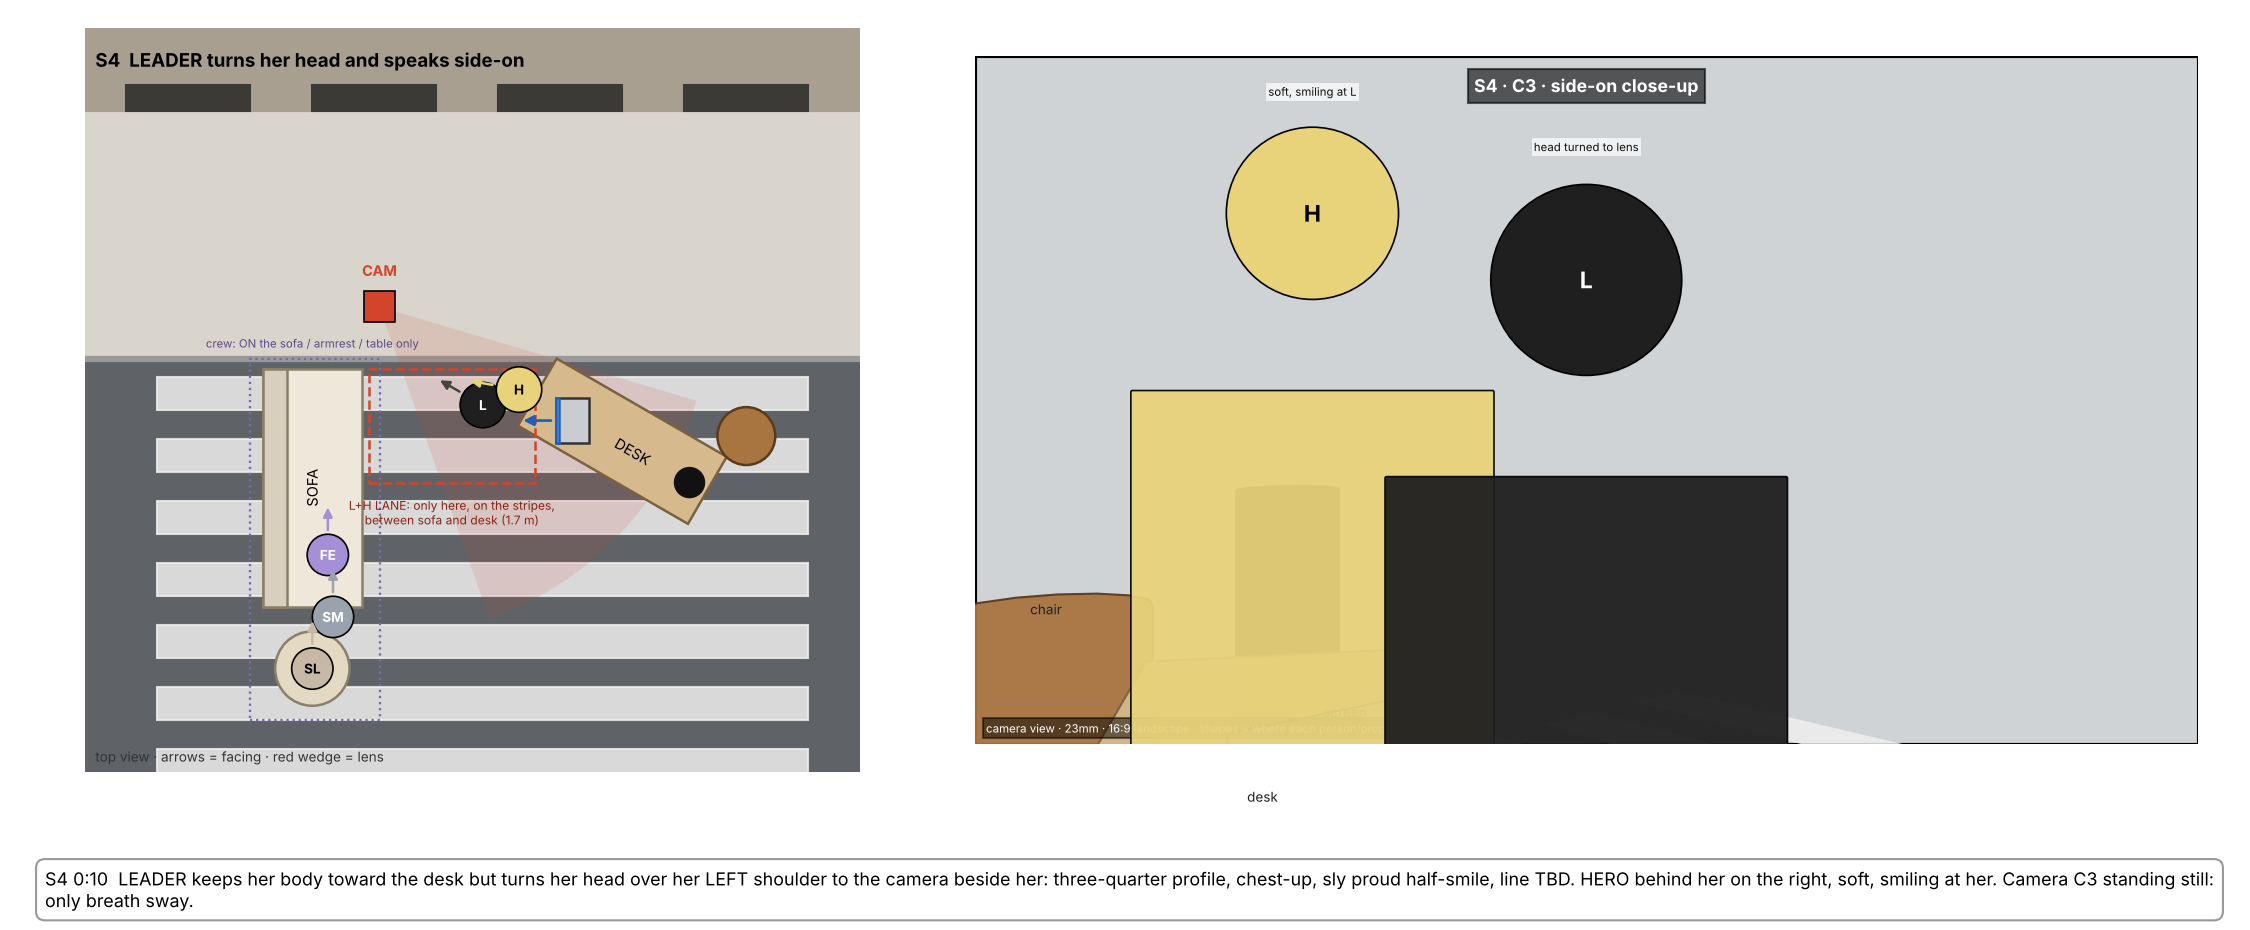
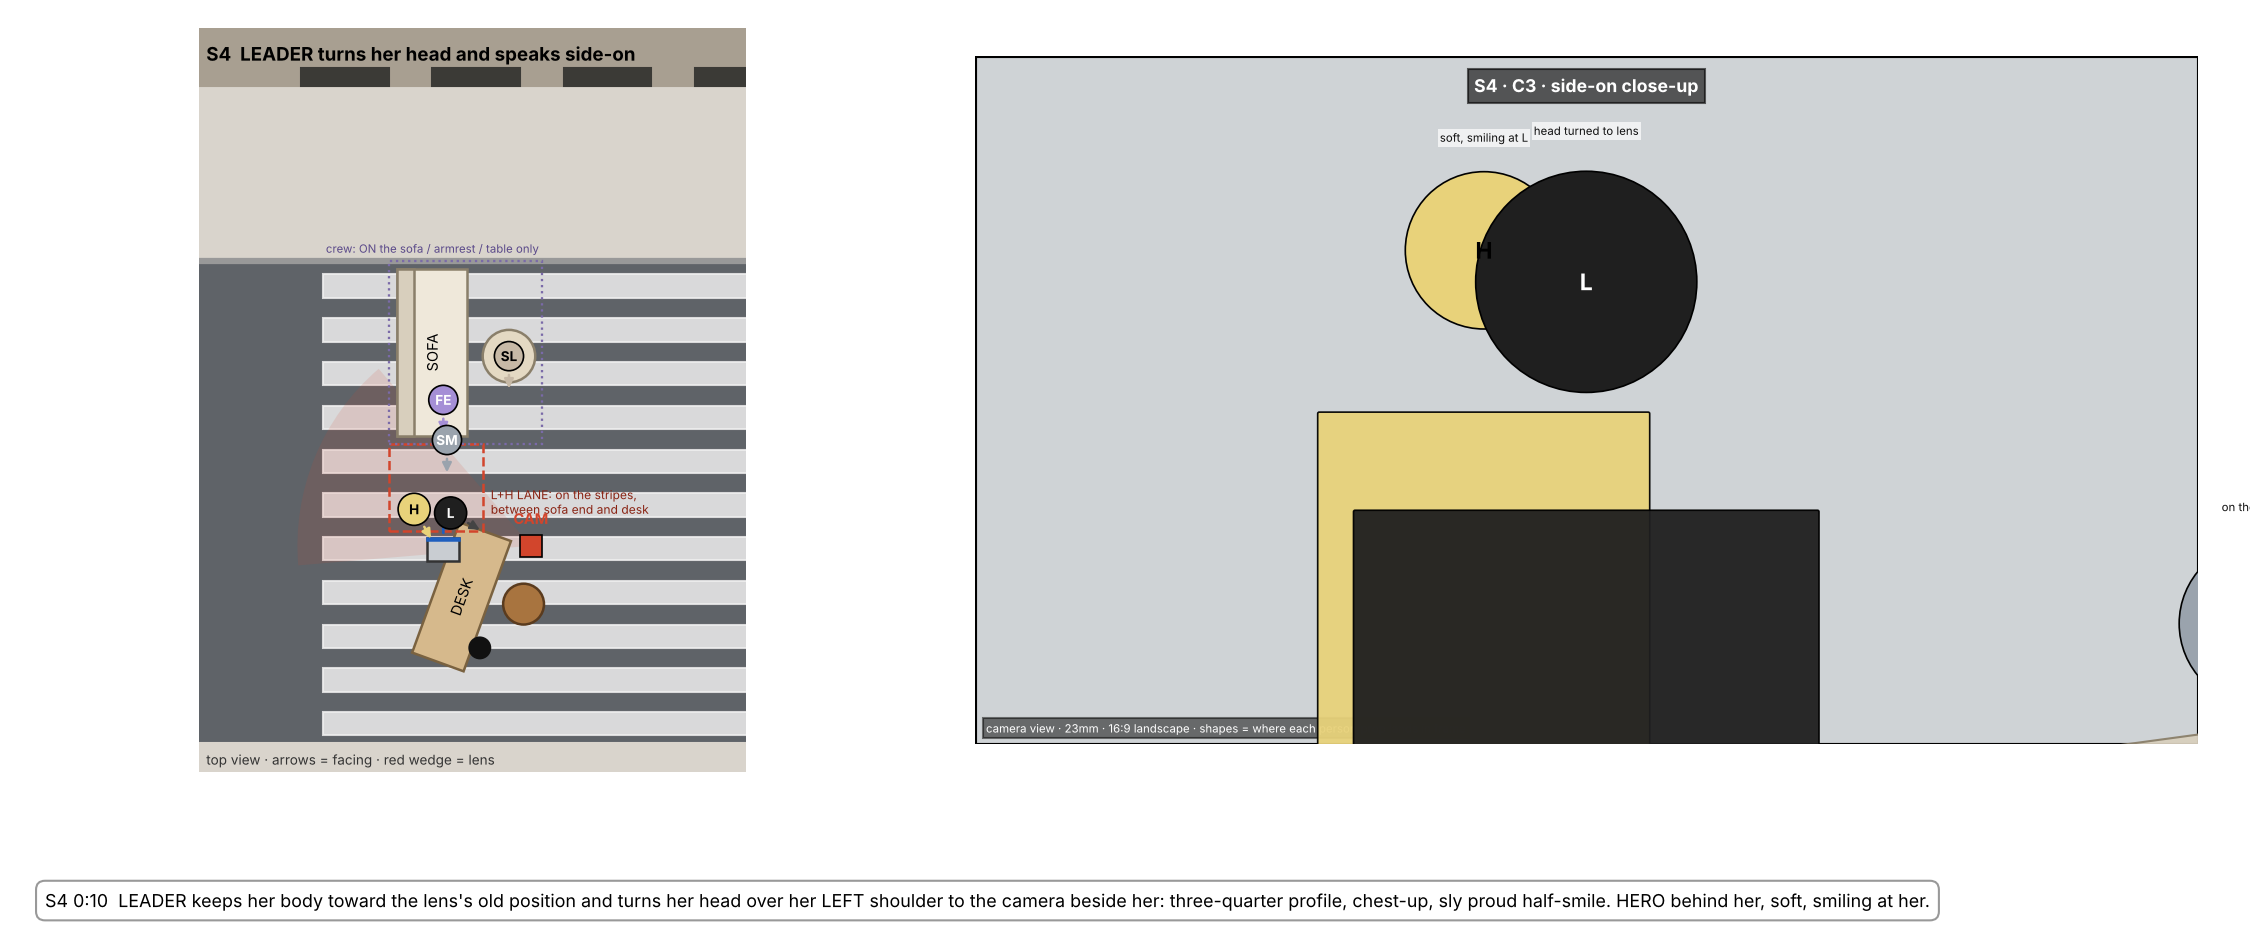
Previz on scene_empty matching Chia's couch/desk sketch; world re-laid (desk out on the crossing toward the camera)
Claude-Session: https://claude.ai/code/session_01UrVJCYAfMmjv3QQnRf3jKV

diff --git a/prompts/shotdiagrams.py b/prompts/shotdiagrams.py
@@ -23,12 +23,12 @@ def rot(cx, cy, w, h, ang):
 
 SOFA = dict(poly=[(0.72, -2.4), (1.68, -2.4), (1.68, -0.1), (0.72, -0.1)], h=0.45, fc="#efe8da", ec="#8a7f6a", label="sofa")
 SOFA_BACK = dict(poly=[(0.72, -2.4), (0.95, -2.4), (0.95, -0.1), (0.72, -0.1)], h=0.85, fc="#d8cfbd", ec="#8a7f6a", label="")
-TABLE = dict(circle=(1.2, -3.0, 0.36), h=0.42, fc="#e4d9c3", ec="#8a7f6a", label="table")
-DESK = dict(poly=rot(4.2, -0.8, 1.9, 0.75, -30), h=0.75, fc="#d6b98c", ec="#7a6240", label="desk")
-LAPTOP = dict(poly=rot(3.72, -0.6, 0.32, 0.44, 0), h=0.77, fc="#c9cdd2", ec="#333", label="")
-SCREEN = dict(poly=[(3.56, -0.82), (3.59, -0.82), (3.59, -0.38), (3.56, -0.38)], h=0.98, z0=0.76, fc="#9ecbff", ec="#1f5fbf", label="screen")
-LAMP = dict(circle=(4.85, -1.2, 0.14), h=1.25, fc="#111", ec="#111", label="lamp")
-CHAIR = dict(circle=(5.4, -0.75, 0.28), h=0.9, fc="#a8743f", ec="#5a3b1e", label="chair")
+TABLE = dict(circle=(2.25, -1.3, 0.36), h=0.42, fc="#e4d9c3", ec="#8a7f6a", label="table")
+DESK = dict(poly=rot(1.6, -4.6, 1.9, 0.75, 70), h=0.75, fc="#d6b98c", ec="#7a6240", label="desk")
+LAPTOP = dict(poly=rot(1.35, -3.95, 0.44, 0.32, 0), h=0.77, fc="#c9cdd2", ec="#333", label="")
+SCREEN = dict(poly=[(1.13, -3.82), (1.57, -3.82), (1.57, -3.79), (1.13, -3.79)], h=0.98, z0=0.76, fc="#9ecbff", ec="#1f5fbf", label="screen")
+LAMP = dict(circle=(1.85, -5.3, 0.14), h=1.25, fc="#111", ec="#111", label="lamp")
+CHAIR = dict(circle=(2.45, -4.7, 0.28), h=0.9, fc="#a8743f", ec="#5a3b1e", label="chair")
 FURN = [SOFA, SOFA_BACK, TABLE, DESK, LAPTOP, SCREEN, LAMP, CHAIR]
 
 # ---------- people ----------
@@ -74,26 +74,27 @@ def to_axes(uv):
 
 # ---------- drawing: top view ----------
 def draw_top(ax, people, cam, title):
-    ax.set_xlim(-1.0, 6.5); ax.set_ylim(-4.0, 3.2); ax.set_aspect("equal"); ax.axis("off")
-    ax.add_patch(Rectangle((-1, -4), 7.5, 4, color="#5f6368"))
-    ax.add_patch(Rectangle((-1, 0), 7.5, 2.4, color="#d9d4cc"))
-    ax.add_patch(Rectangle((-1, 2.4), 7.5, 0.8, color="#a89f91"))
+    ax.set_xlim(-2.0, 5.5); ax.set_ylim(-7.0, 3.2); ax.set_aspect("equal"); ax.axis("off")
+    ax.add_patch(Rectangle((-2, -7), 7.5, 7, color="#5f6368"))
+    ax.add_patch(Rectangle((-2, 0), 7.5, 2.4, color="#d9d4cc"))
+    ax.add_patch(Rectangle((-2, 2.4), 7.5, 0.8, color="#a89f91"))
     for i in range(4):
         ax.add_patch(Rectangle((-0.6 + i*1.8, 2.4), 1.2, 0.25, color="#3b3a36"))
-    ax.plot([-1, 6.5], [0, 0], color="#999", lw=3)
-    for i in range(7):
+    ax.plot([-2, 5.5], [0, 0], color="#999", lw=3)
+    for i in range(11):
         ax.add_patch(Rectangle((-0.3, -0.5 - i*0.6), 6.3, 0.32, color="#efefef", alpha=.85))
+    ax.add_patch(Rectangle((-2, -7), 7.5, 0.4, color="#d9d4cc"))  # near sidewalk edge (camera side)
     for fobj in FURN:
         if "poly" in fobj:
             ax.add_patch(Polygon(fobj["poly"], closed=True, fc=fobj["fc"], ec=fobj["ec"], lw=1.2, zorder=3))
         else:
             cx, cy, r = fobj["circle"]; ax.add_patch(Circle((cx, cy), r, fc=fobj["fc"], ec=fobj["ec"], lw=1.2, zorder=3))
     ax.text(1.2, -1.25, "SOFA", rotation=90, ha="center", va="center", fontsize=7, zorder=4)
-    ax.text(4.3, -0.9, "DESK", rotation=-30, ha="center", va="center", fontsize=7, zorder=4)
-    ax.annotate("", xy=(3.2, -0.6), xytext=(3.55, -0.6), arrowprops=dict(arrowstyle="-|>", color="#1f5fbf", lw=1.3), zorder=5)
-    ax.add_patch(Rectangle((1.75, -1.2), 1.6, 1.1, fill=False, ec="#d2452c", ls="--", lw=1.2, zorder=4))
-    ax.text(2.55, -1.35, "L+H LANE: only here, on the stripes,\nbetween sofa and desk (1.7 m)", ha="center", va="top", fontsize=5.8, color="#8a2414", zorder=5)
-    ax.add_patch(Rectangle((0.6, -3.5), 1.25, 3.5, fill=False, ec="#7a6aa8", ls=":", lw=1.1, zorder=4))
+    ax.text(1.6, -4.6, "DESK", rotation=70, ha="center", va="center", fontsize=7, zorder=4)
+    ax.annotate("", xy=(1.35, -3.3), xytext=(1.35, -3.78), arrowprops=dict(arrowstyle="-|>", color="#1f5fbf", lw=1.3), zorder=5)
+    ax.add_patch(Rectangle((0.6, -3.7), 1.3, 1.2, fill=False, ec="#d2452c", ls="--", lw=1.2, zorder=4))
+    ax.text(2.0, -3.1, "L+H LANE: on the stripes,\nbetween sofa end and desk", ha="left", va="top", fontsize=5.8, color="#8a2414", zorder=5)
+    ax.add_patch(Rectangle((0.6, -2.5), 2.1, 2.5, fill=False, ec="#7a6aa8", ls=":", lw=1.1, zorder=4))
     ax.text(1.2, 0.08, "crew: ON the sofa / armrest / table only", ha="center", va="bottom", fontsize=5.5, color="#5b4a8a", zorder=5)
     # camera frustum
     lx, ly = cam["look"]; yaw = math.degrees(math.atan2(ly - cam["y"], lx - cam["x"]))
@@ -110,8 +111,8 @@ def draw_top(ax, people, cam, title):
         ax.add_patch(FancyArrowPatch((p["x"] + r*math.cos(a), p["y"] + r*math.sin(a)),
                                      (p["x"] + (r+0.3)*math.cos(a), p["y"] + (r+0.3)*math.sin(a)),
                                      arrowstyle="-|>", mutation_scale=9, color=COL[p["k"]] if p["k"] != "L" else "#444", lw=1.2, zorder=6))
-    ax.text(-0.9, 3.0, title, fontsize=9, weight="bold", va="top")
-    ax.text(-0.9, -3.9, "top view · arrows = facing · red wedge = lens", fontsize=6.5, color="#333")
+    ax.text(-1.9, 3.0, title, fontsize=9, weight="bold", va="top")
+    ax.text(-1.9, -6.9, "top view · arrows = facing · red wedge = lens", fontsize=6.5, color="#333")
 
 # ---------- drawing: camera view ----------
 def draw_cam(ax, people, cam, title):
@@ -154,7 +155,7 @@ def draw_cam(ax, people, cam, title):
         s = poly_world([(-0.3, -0.5 - i*0.6), (6.0, -0.5 - i*0.6), (6.0, -0.18 - i*0.6), (-0.3, -0.18 - i*0.6)])
         if s:
             ax.add_patch(Polygon(s, closed=True, fc="#efefef", ec="none", alpha=.85, zorder=1))
-    lane = poly_world([(1.75, -1.2), (3.35, -1.2), (3.35, -0.1), (1.75, -0.1)])
+    lane = poly_world([(0.6, -3.7), (1.9, -3.7), (1.9, -2.5), (0.6, -2.5)])
     if lane:
         ax.add_patch(Polygon(lane, closed=True, fc="none", ec="#d2452c", ls="--", lw=1.0, zorder=2))
     # depth-sorted objects
@@ -229,57 +230,47 @@ def render(shot_id, title, beat_text, people, cam):
 
 # ---------- the beats ----------
 # crew home marks
-FE_home = P("FE", 1.35, -1.9, "kneel", 90, "on the seat")
-SM_home = P("SM", 1.4, -2.5, "sit", 90, "on the armrest")
-SL_home = P("SL", 1.2, -3.0, "sit", 90, "on the table")
+FE_home = P("FE", 1.35, -1.9, "kneel", 270, "on the seat")
+SM_home = P("SM", 1.4, -2.45, "sit", 270, "on the armrest")
+SL_home = P("SL", 2.25, -1.3, "sit", 270, "on the table")
 
 SHOTS = [
  ("S1a", "Sofa, camera arrives",
-  "S1a 0:00  All five at the sofa. LEADER sits at the curb end of the sofa, HERO right beside her on her right (the road side), magazine closed on her lap. "
-  "FEATHER bounces on the far seat; SILVERMAN sits on the road-end armrest and hops up and down on it; SLICKED sits on the travertine table facing the sofa. Nobody stands behind the sofa. "
-  "Camera C1 on the sidewalk, 2.6 m back from the curb, looking down at the sofa. LEADER glances up at the lens. Desk at the right frame edge.",
-  [P("L", 1.35, -0.55, "sit", 0, "sits, curb end"), P("H", 1.35, -1.25, "sit", 0, "sits beside L"), FE_home, SM_home, SL_home],
-  CAM(2.9, 2.6, (1.4, -1.4), z=1.5, pitch=-7, note="C1 · wide on the sofa")),
- ("S1b", "They stand and walk; camera backs up",
-  "S1b 0:00.8  LEADER and HERO are up and walking along the curb toward the desk, HERO glued to LEADER's right (road side), magazine now open over her face. They walk ON the white stripes, inside the 1.7 m lane between sofa and desk, never up onto the sidewalk. "
-  "Camera walks BACKWARD 2 m ahead of them along the sidewalk, step bob, slight tilt. Crew stays at the sofa, 1–2 m behind the pair, soft. LEADER looks into the lens.",
-  [P("L", 2.3, -0.4, "stand", 0, "walking, eyes on lens"), P("H", 2.3, -1.0, "stand", 0, "magazine over face"), FE_home, SM_home, SL_home],
-  CAM(3.7, 2.7, (2.3, -0.7), z=1.5, pitch=-5, roll=2, note="C1→C2 · walking backward")),
+  "S1a 0:00  All five at the sofa at the far (building) curb. LEADER sits on the sofa at the ROAD end (nearest the camera), HERO right beside her on her right, magazine closed on her lap. FEATHER kneels on the seat behind them; SILVERMAN sits on the far armrest; SLICKED sits on the travertine table beside the sofa. Nobody stands behind the sofa. The desk stands on the crossing nearer the camera, lower right. Camera C1 on the near sidewalk corner.",
+  [P("L", 1.35, -2.0, "sit", 270, "sits, road end"), P("H", 1.0, -2.0, "sit", 270, "sits beside L"), P("FE", 1.35, -1.2, "kneel", 270, "on the seat"), P("SM", 1.4, -0.3, "sit", 270, "on the armrest"), SL_home],
+  CAM(-2.98, -8.87, (1.2, -2.0), z=1.8, pitch=-7.7, note="C1 · wide on the sofa")),
+ ("S1b", "They stand and walk toward the camera; camera backs up",
+  "S1b 0:00.8  LEADER and HERO are up and walking along the stripes from the sofa toward the desk and the lens, HERO glued to LEADER's right, magazine open over her face. They stay inside the lane between the sofa's road end and the desk; the sofa is one step behind them, the desk one step ahead. Camera walks BACKWARD on the near sidewalk.",
+  [P("L", 1.35, -2.9, "stand", 270, "walking, eyes on lens"), P("H", 0.8, -2.85, "stand", 270, "magazine over face"), FE_home, SM_home, SL_home],
+  CAM(-3.2, -9.2, (1.2, -3.0), z=1.8, pitch=-7, roll=2, note="C1→C2 · walking backward")),
  ("S2a", "At the desk; LEADER starts her line",
-  "S2a 0:02  They stop at the desk's near end: HERO's right hip almost touches the desk corner, LEADER one step to her left. Both stand on the stripes below the curb; the camera man is the only one on the sidewalk. "
-  "magazine lowered to her chest, looking at LEADER. Camera C2 on the sidewalk, 2.6 m back from the curb. LEADER: 'Still paying Higgsfield for this?' Crew soft 2 m behind.",
-  [P("L", 2.85, -0.45, "stand", 90, "faces lens, speaking"), P("H", 3.2, -0.3, "stand", 120, "at the desk corner, looks at L"),
-   FE_home, SM_home, SL_home],
-  CAM(4.1, 2.6, (2.95, -0.45), z=1.5, pitch=-4, note="C2 · medium two-shot")),
+  "S2a 0:02  They stop at the desk's sofa-side end: HERO's right hip almost touches the desk corner, LEADER one step to her left (camera-right). Both face the lens; both on the stripes. LEADER: 'Still paying Higgsfield for this?' Crew soft on the sofa behind them.",
+  [P("L", 1.45, -3.45, "stand", 270, "faces lens, speaking"), P("H", 0.95, -3.4, "stand", 270, "at the desk corner, looks at L"), FE_home, SM_home, SL_home],
+  CAM(-2.98, -8.87, (1.2, -3.4), z=1.8, pitch=-7.7, note="C2 · medium two-shot")),
  ("S2b", "Push-in on LEADER",
-  "S2b 0:03  While LEADER speaks the camera walks in to 0.8 m: her face and upper body fill the frame, focus on her eyes, proud cute micro-expressions. "
-  "HERO is a soft shape at the right edge, still looking at LEADER. Nothing else sharp.",
-  [P("L", 2.85, -0.45, "stand", 90, "close-up"), P("H", 3.2, -0.3, "stand", 120, "soft, edge"), FE_home, SM_home, SL_home],
-  CAM(3.15, 0.75, (2.85, -0.45), z=1.5, pitch=0, note="C2+ · close on LEADER")),
+  "S2b 0:03  While LEADER speaks the camera walks in to 0.8 m: her face and upper body fill the frame, focus on her eyes. HERO a soft shape at the frame edge, looking at LEADER.",
+  [P("L", 1.45, -3.45, "stand", 270, "close-up"), P("H", 0.95, -3.4, "stand", 270, "soft, edge"), FE_home, SM_home, SL_home],
+  CAM(1.2, -4.9, (1.45, -3.45), z=1.5, pitch=2, note="C2+ · close on LEADER")),
  ("S3a", "HERO speaks; camera turns to her",
-  "S3a 0:04.5  HERO: 'We made Higgsfield 3x cheaper… I cost [$HF] on Higgsfield, and now [$TREG] on treg.' Camera pans from LEADER to HERO (small overshoot, refocus) and holds on her. "
-  "HERO looks lens → LEADER → lens; LEADER watches HERO, hand on her shoulder. Same marks as S2a.",
-  [P("L", 2.85, -0.45, "stand", 30, "watches H"), P("H", 3.2, -0.3, "stand", 100, "speaking to lens"), FE_home, SM_home, SL_home],
-  CAM(4.1, 2.6, (3.2, -0.3), z=1.5, pitch=-4, note="C2 · on HERO")),
+  "S3a 0:04.5  HERO's lines. Camera whips from LEADER to HERO and holds. HERO looks lens → LEADER → lens; LEADER watches HERO, hand on her shoulder. Same marks as S2a.",
+  [P("L", 1.45, -3.45, "stand", 230, "watches H"), P("H", 0.95, -3.4, "stand", 270, "speaking to lens"), FE_home, SM_home, SL_home],
+  CAM(-2.98, -8.87, (0.95, -3.4), z=1.8, pitch=-7.7, note="C2 · on HERO")),
  ("S3b", "Camera walks round to LEADER's left",
-  "S3b 0:07  Still on HERO's price line, the camera man walks along the curb to C3, on LEADER's LEFT (the sofa side), 1 m from her. Each step a dip, horizon rolls a degree or two. "
-  "In the near foreground: LEADER's left shoulder, kimono sleeve and the back of her bob, soft. HERO still talking beyond her. Desk and laptop behind them.",
-  [P("L", 2.85, -0.45, "stand", 40, "fg shoulder"), P("H", 3.2, -0.3, "stand", 150, "talking"), FE_home, SM_home, SL_home],
-  CAM(1.9, 0.6, (3.2, -0.35), z=1.5, pitch=-1, roll=3, note="C3 · arriving, over L's shoulder")),
+  "S3b 0:07  Still HERO's line; nobody moves. The camera man walks round to LEADER's LEFT (camera-right side), 1 m from her. Foreground: LEADER's left shoulder, sleeve and the back of her bob, soft. HERO talking beyond her; the sofa and crew behind.",
+  [P("L", 1.45, -3.45, "stand", 250, "fg shoulder"), P("H", 0.95, -3.4, "stand", 280, "talking"), FE_home, SM_home, SL_home],
+  CAM(2.5, -4.1, (0.95, -3.4), z=1.5, pitch=0, roll=3, note="C3 · arriving, over L's shoulder")),
  ("S4", "LEADER turns her head and speaks side-on",
-  "S4 0:10  LEADER keeps her body toward the desk but turns her head over her LEFT shoulder to the camera beside her: three-quarter profile, chest-up, sly proud half-smile, line TBD. "
-  "HERO behind her on the right, soft, smiling at her. Camera C3 standing still: only breath sway.",
-  [P("L", 2.85, -0.45, "stand", 150, "head turned to lens"), P("H", 3.2, -0.3, "stand", 170, "soft, smiling at L"), FE_home, SM_home, SL_home],
-  CAM(1.85, 0.5, (2.85, -0.45), z=1.5, pitch=0, note="C3 · side-on close-up")),
+  "S4 0:10  LEADER keeps her body toward the lens's old position and turns her head over her LEFT shoulder to the camera beside her: three-quarter profile, chest-up, sly proud half-smile. HERO behind her, soft, smiling at her.",
+  [P("L", 1.45, -3.45, "stand", 330, "head turned to lens"), P("H", 0.95, -3.4, "stand", 300, "soft, smiling at L"), FE_home, SM_home, SL_home],
+  CAM(2.55, -3.9, (1.45, -3.45), z=1.5, pitch=1, note="C3 · side-on close-up")),
  ("S5a", "Behind LEADER: over her left shoulder onto the laptop",
-  "S5a 0:11.5  LEADER steps to the laptop on the desk's near end and stands facing its screen (the screen faces the sofa, so she stands on the sofa side of the desk with her BACK to the sofa and to the camera). "
-  "The camera man steps in BEHIND her, slightly to her left, on the crossing, lens at her shoulder height looking past her left shoulder down onto the screen. We see the BACK of her black bob, the edge of her left ear, her left shoulder and kimono sleeve, soft and large at the RIGHT edge of the frame, and the glowing screen beyond in the middle. Her FACE IS NOT VISIBLE. HERO on LEADER's right, seen from behind-three-quarter, leaning in.",
-  [P("L", 3.0, -0.55, "stand", 0, "back to camera, at the desk edge"), P("H", 2.95, -1.1, "stand", 25, "leans in"), FE_home, SM_home, SL_home],
-  CAM(2.5, 0.08, (3.58, -0.62), z=1.55, pitch=-20, note="C4 · behind her, over the left shoulder")),
- ("S5b", "Push-in past her shoulder to the screen",
-  "S5b 0:12.5  From behind her the camera pushes forward past her left shoulder until the plain glowing screen fills most of the frame: the back of her bob and the edge of her shoulder slide out of frame on the right, soft. Still no face. No UI, no logo. Hand-off frame for the match cut to the screen recording.",
-  [P("L", 3.0, -0.55, "stand", 0, "back of head, soft"), P("H", 2.95, -1.1, "stand", 25, "")],
-  CAM(2.95, -0.15, (3.58, -0.62), z=1.25, pitch=-16, note="C4+ · screen fills frame")),
+  "S5a 0:11.5  LEADER steps to the desk's sofa-side end, lifts the laptop and holds it at chest height, screen toward her (toward the sofa side), lid toward the road. Her BACK is to the sofa. The camera man steps in BEHIND her, between her and the sofa, slightly to her left: back of her bob, left ear edge, left shoulder and sleeve large and soft on the right of frame; the glowing screen past her shoulder. HERO on her right, leaning in. No face.",
+  [P("L", 1.35, -3.55, "stand", 270, "back to camera, laptop in hands"), P("H", 0.85, -3.6, "stand", 290, "leans in"), FE_home, SM_home, SL_home],
+  CAM(1.75, -2.5, (1.3, -3.9), z=1.55, pitch=-18, note="C4 · behind her, over the left shoulder")),
+ ("S5b", "Push past her shoulder to the screen",
+  "S5b 0:12.5  From behind her the camera pushes forward past her left shoulder until the plain glowing screen fills most of the frame; her bob and shoulder slide out of frame on the right. Still no face. Beyond the screen: her hands, the desk top, the stripes and the road.",
+  [P("L", 1.35, -3.55, "stand", 270, "back of head, soft"), P("H", 0.85, -3.6, "stand", 290, "")],
+  CAM(1.6, -3.0, (1.3, -3.9), z=1.35, pitch=-14, note="C4+ · screen fills frame")),
 ]
 
 if __name__ == "__main__":

diff --git a/prompts/previz.py b/prompts/previz.py
@@ -6,14 +6,14 @@ import numpy as np
 from PIL import Image, ImageDraw, ImageFont
 import shotdiagrams as sd
 
-PLATE = '/home/claude/treg-ugc-assets/plates/scene_front.jpg'
+PLATE = '/home/claude/treg-ugc-assets/plates/scene_empty.jpg'
 FONT = ImageFont.truetype('/usr/share/fonts/truetype/dejavu/DejaVuSans-Bold.ttf', 34)
 
 def mk(cx, cy, cz, yawdeg, pitch):
     y = math.radians(yawdeg)
     return dict(x=cx, y=cy, z=cz, look=(cx + math.cos(y), cy + math.sin(y)), pitch=pitch, roll=0)
 
-PLATE_CAM = mk(2.1, -6.5, 1.5, 90, -12)   # calibrated to scene_front.jpg: frontal, curb at 0.52H
+PLATE_CAM = mk(-2.981, -8.875, 1.796, 47.2, -7.75)   # fitted to scene_empty.jpg + Chia's couch/desk boxes
 
 COL = {'L': (30, 30, 30), 'H': (232, 210, 122), 'FE': (165, 143, 214), 'SM': (154, 163, 173), 'SL': (199, 185, 166)}
 FCOL = {'sofa': (239, 232, 218), 'table': (228, 217, 195), 'desk': (214, 185, 140), 'laptop': (201, 205, 210),
@@ -45,12 +45,12 @@ def draw_furniture(draw, cam, W, H):
     box(draw, cam, sd.SOFA_BACK['poly'], 0, 0.85, (216, 207, 189), W, H)
     cx, cy, r = sd.TABLE['circle']; box(draw, cam, circle_pts(cx, cy, r), 0, 0.42, FCOL['table'], W, H)
     box(draw, cam, sd.DESK['poly'], 0.68, 0.76, FCOL['desk'], W, H)          # desk top slab
-    for lx, ly in [(3.3, -0.55), (5.05, -1.55), (3.45, -0.05), (5.2, -1.0)]:  # legs
+    for lx, ly in [(1.1, -3.95), (2.1, -5.25), (1.75, -3.7), (1.45, -5.5)]:  # legs
         box(draw, cam, [(lx - 0.03, ly - 0.03), (lx + 0.03, ly - 0.03), (lx + 0.03, ly + 0.03), (lx - 0.03, ly + 0.03)], 0, 0.72, (90, 70, 40), W, H)
     box(draw, cam, sd.LAPTOP['poly'], 0.76, 0.78, FCOL['laptop'], W, H)       # base
     box(draw, cam, sd.SCREEN['poly'], 0.76, 0.98, FCOL['screen'], W, H)       # screen, facing the sofa
     cx, cy, r = sd.LAMP['circle']; box(draw, cam, circle_pts(cx, cy, 0.03), 0.76, 1.15, FCOL['lamp'], W, H); box(draw, cam, circle_pts(cx, cy, r), 1.12, 1.25, FCOL['lamp'], W, H)
-    cx, cy, r = sd.CHAIR['circle']; box(draw, cam, circle_pts(cx, cy, r), 0.42, 0.47, FCOL['chair'], W, H); box(draw, cam, circle_pts(cx + 0.2, cy - 0.1, 0.05), 0.45, 0.9, FCOL['chair'], W, H)
+    cx, cy, r = sd.CHAIR['circle']; box(draw, cam, circle_pts(cx, cy, r), 0.42, 0.47, FCOL['chair'], W, H); box(draw, cam, circle_pts(cx + 0.22, cy, 0.05), 0.45, 0.9, FCOL['chair'], W, H)
 
 def draw_person(draw, cam, p, W, H):
     hgt = sd.person_height(p)
